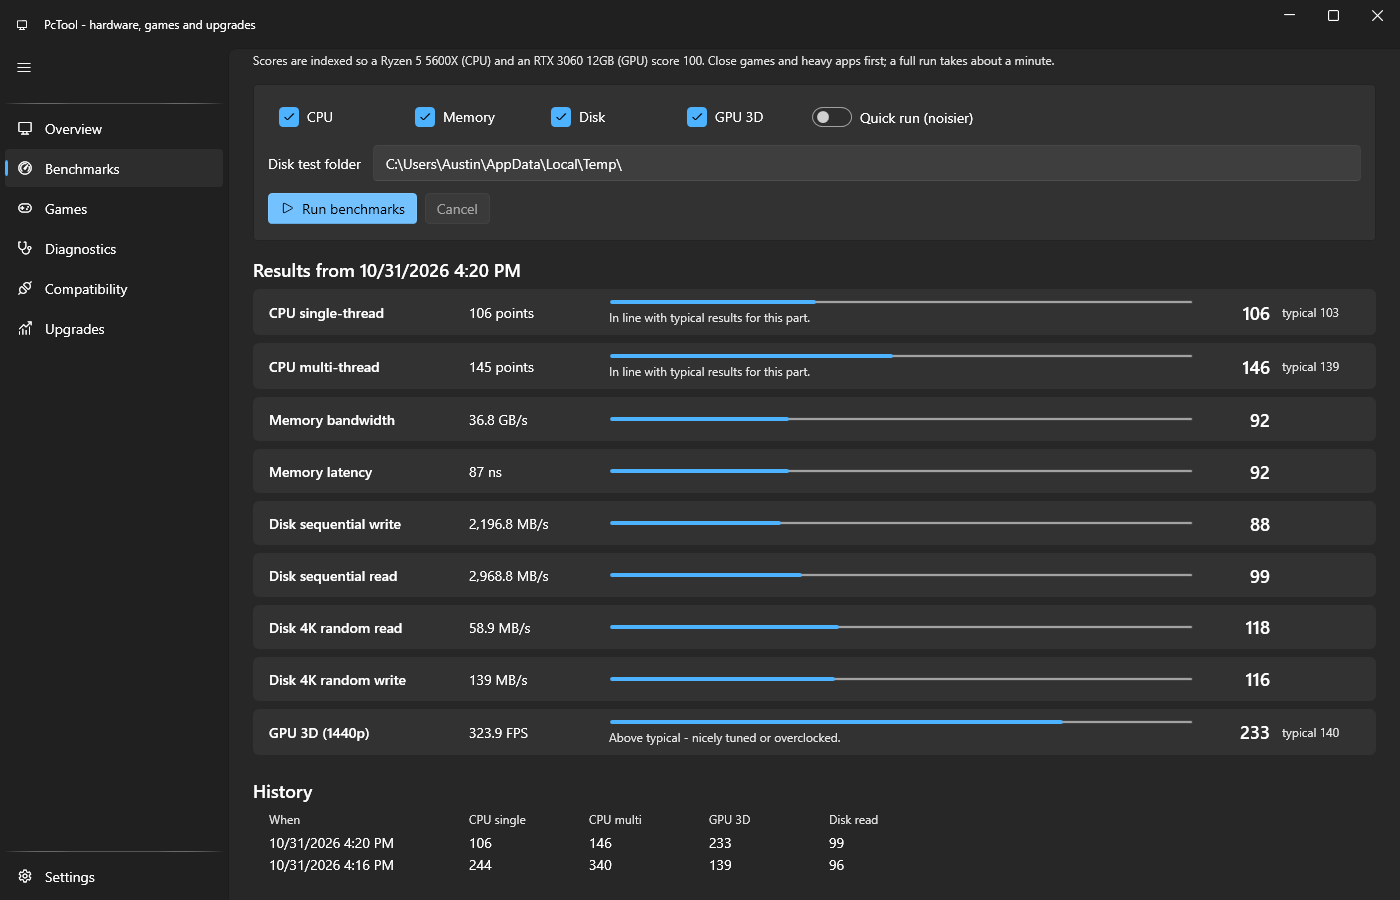
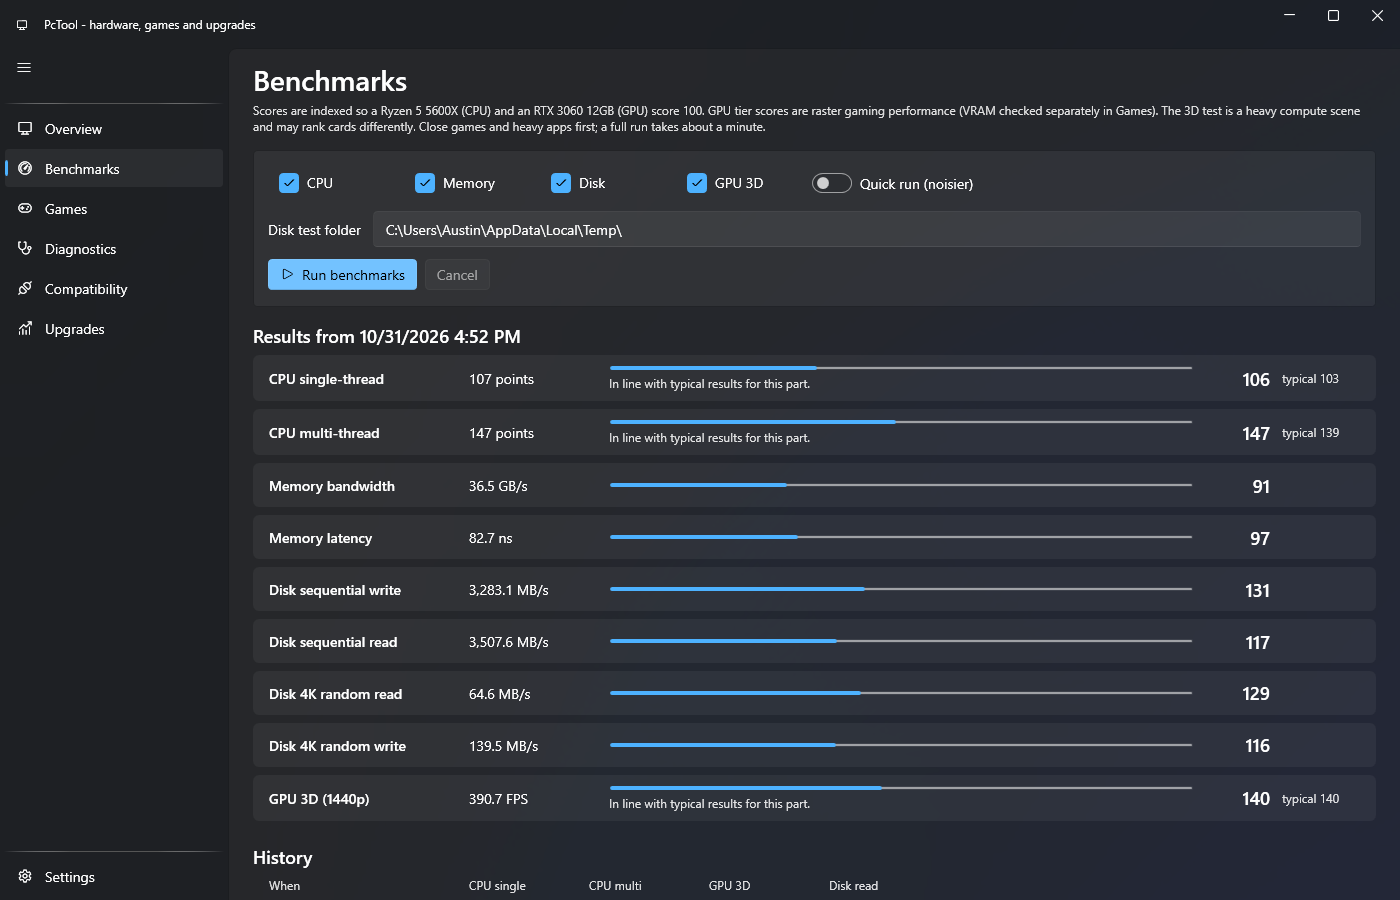
Fix GPU benchmark calibration and align scores with tier index
Recalibrate ReferenceFps from tier score (3070=140) instead of an ad-hoc target, wait on each GPU frame before counting, show raster index and VRAM in the UI, and refresh overview/benchmarks screenshots.

diff --git a/src/PcTool.App/Views/BenchmarksPage.xaml b/src/PcTool.App/Views/BenchmarksPage.xaml
@@ -7,7 +7,7 @@
     <StackPanel Margin="24,12,24,24">
         <TextBlock Text="Benchmarks" FontSize="28" FontWeight="SemiBold" />
         <TextBlock Style="{StaticResource Caption}" Margin="0,4,0,0"
-                   Text="Scores are indexed so a Ryzen 5 5600X (CPU) and an RTX 3060 12GB (GPU) score 100. Close games and heavy apps first; a full run takes about a minute." />
+                   Text="Scores are indexed so a Ryzen 5 5600X (CPU) and an RTX 3060 12GB (GPU) score 100. GPU tier scores are raster gaming performance (VRAM checked separately in Games). The 3D test is a heavy compute scene and may rank cards differently. Close games and heavy apps first; a full run takes about a minute." TextWrapping="Wrap" />
 
         <ui:Card Margin="0,16,0,0">
             <StackPanel>

diff --git a/src/PcTool.App/ViewModels/BenchmarksViewModel.cs b/src/PcTool.App/ViewModels/BenchmarksViewModel.cs
@@ -119,8 +119,9 @@ public sealed partial class BenchmarksViewModel : ObservableObject
                 BenchmarkKind.Gpu3D => s?.GpuTier?.Score,
                 _ => null,
             };
+            var displayScore = r.Kind == BenchmarkKind.Gpu3D && s?.GpuTier is { } gt ? gt.Score : r.Score;
             string? note = null;
-            if (typical is { } t && r.Score is { } score)
+            if (typical is { } t && displayScore is { } score)
             {
                 var ratio = score / t;
                 note = ratio switch
@@ -128,17 +129,21 @@ public sealed partial class BenchmarksViewModel : ObservableObject
                     < 0.85 => r.Kind == BenchmarkKind.Gpu3D
                         ? "Well below typical. Check GPU temperatures, the power plan, and that the monitor is plugged into the graphics card."
                         : "Well below typical. Check CPU temperatures, the power plan, and close background apps.",
-                    > 1.15 => "Above typical - nicely tuned or overclocked.",
+                    > 1.15 => r.Kind == BenchmarkKind.Gpu3D
+                        ? "Above typical on the raster index."
+                        : "Above typical - nicely tuned or overclocked.",
                     _ => "In line with typical results for this part.",
                 };
+                if (r.Kind == BenchmarkKind.Gpu3D && r.Score is { } synth && Math.Abs(synth - t) > 10)
+                    note = $"{note} This raymarch test scored {synth:F0}; tier index {t:F0} (VRAM is separate).";
             }
             Results.Add(new BenchmarkRow(
                 Label(r.Kind),
                 $"{r.Value:#,0.#} {r.Unit}",
-                r.Score is { } sc ? sc.ToString("F0") : "-",
+                displayScore is { } sc ? sc.ToString("F0") : "-",
                 typical is { } tt ? $"typical {tt:F0}" : "",
                 note,
-                Math.Clamp((r.Score ?? 0) / 300, 0, 1)));
+                Math.Clamp((displayScore ?? 0) / 300, 0, 1)));
         }
     }
 

diff --git a/src/PcTool.Benchmarks/GpuBenchmark.cs b/src/PcTool.Benchmarks/GpuBenchmark.cs
@@ -13,13 +13,15 @@ namespace PcTool.Benchmarks;
 /// <summary>
 /// Renders a raymarched scene (soft shadows, many SDF evaluations per pixel) offscreen at 2560x1440 with Direct3D 11
 /// on the high-performance adapter. Event queries keep up to three frames in flight so the count reflects real GPU
-/// completion, not CPU submission. Score is normalized so an RTX 3060 12GB = 100, matching the tier database.
+/// completion, not CPU submission. Each frame waits on its GPU event query before counting so pipelining cannot
+/// inflate FPS. Score is normalized so an RTX 3060 12GB = 100 on the tier raster index (calibrated from a known GPU).
 /// </summary>
 public static class GpuBenchmark
 {
     public const int Width = 2560;
     public const int Height = 1440;
-    internal const double ReferenceFps = 139.1; // RTX 3060 12GB equivalent, calibrated on an RTX 3070
+    // Implied RTX 3060 12GB FPS on this scene: ReferenceFps. Calibrated as measuredFps * 100 / tierScore on an RTX 3070 (140).
+    internal const double ReferenceFps = 261.6;
 
     [StructLayout(LayoutKind.Sequential)]
     private struct FrameConstants
@@ -61,16 +63,13 @@ public static class GpuBenchmark
                 void RenderFrame(float time)
                 {
                     var slot = (int)(frames % queries.Length);
-                    if (frames >= queries.Length)
-                    {
-                        while (!context.IsDataAvailable(queries[slot])) Thread.SpinWait(32);
-                    }
                     frame.Time = time;
                     context.UpdateSubresource(in frame, constants);
                     context.ClearRenderTargetView(rtv, new Color4(0, 0, 0, 1));
                     context.Draw(3, 0);
                     context.End(queries[slot]);
                     context.Flush();
+                    while (!context.IsDataAvailable(queries[slot])) Thread.SpinWait(32);
                     frames++;
                 }
 

diff --git a/src/PcTool.App/ViewModels/OverviewViewModel.cs b/src/PcTool.App/ViewModels/OverviewViewModel.cs
@@ -122,7 +122,9 @@ public sealed partial class OverviewViewModel : ObservableObject
         {
             var primary = g == p.PrimaryGpu;
             var score = primary
-                ? s.GpuTier is not null || s.GpuScoreFromBenchmark ? $"Score {s.GpuScore:F0} · {s.GpuTier?.Upscaling switch { null or "" => "no upscaler", var u => u }}" : "Not in the tier database - run a benchmark"
+                ? s.GpuTier is not null || s.GpuScoreFromBenchmark
+                    ? $"Score {s.GpuScore:F0} · {(g.IsIntegrated ? "shared memory" : $"{g.VramGb:F0} GB VRAM")} · {s.GpuTier?.Upscaling switch { null or "" => "no upscaler", var u => u }}"
+                    : "Not in the tier database - run a benchmark"
                 : null;
             Sections.Add(new(primary ? "Graphics" : "Graphics (secondary)", SymbolRegular.Video24, g.Name, score,
             [

diff --git a/.cursor/skills/pctool-development/SKILL.md b/.cursor/skills/pctool-development/SKILL.md
@@ -76,5 +76,5 @@ dotnet run --project tools/PcTool.Cli -- check --part "<model text>" --psu 650
 - WPF projects don't get `System.IO` as an implicit using; add it explicitly.
 - `EmbeddedCatalogs.Parts` is the concrete `PartsCatalog`; call `.Parts.OfType<T>()`, not the interface default `OfType<T>()`.
 - DXGI reports VRAM in GiB slightly under the marketed size; `GpuInfo.VramGb` already rounds — don't round again.
-- Benchmark reference constants (`CpuBenchmark.SingleReference/MultiReference`, `GpuBenchmark.ReferenceFps`) are calibrated so measured scores line up with the tier scale. If you change a workload, recalibrate against a machine whose tier scores are known, using a Release build (`dotnet run -c Release --project tools/PcTool.Cli -- bench`); Debug builds are several times slower.
+- Benchmark reference constants (`CpuBenchmark.SingleReference/MultiReference`, `GpuBenchmark.ReferenceFps`) are calibrated so measured scores line up with the tier scale. If you change a workload, recalibrate against a machine whose tier scores are known, using a Release build (`dotnet run -c Release --project tools/PcTool.Cli -- bench`); Debug builds are several times slower. For GPU: `ReferenceFps = measuredFps * 100 / gpuTierScore` on a known card (e.g. RTX 3070 = 140). The 3D test is compute-heavy; the Benchmarks page shows the tier raster index when the GPU is in the database.
 - New third-party packages: check the license (avoid non-commercial data like BuildCores OpenDB) and add them to `THIRD-PARTY-NOTICES.txt` and the Settings page list.
